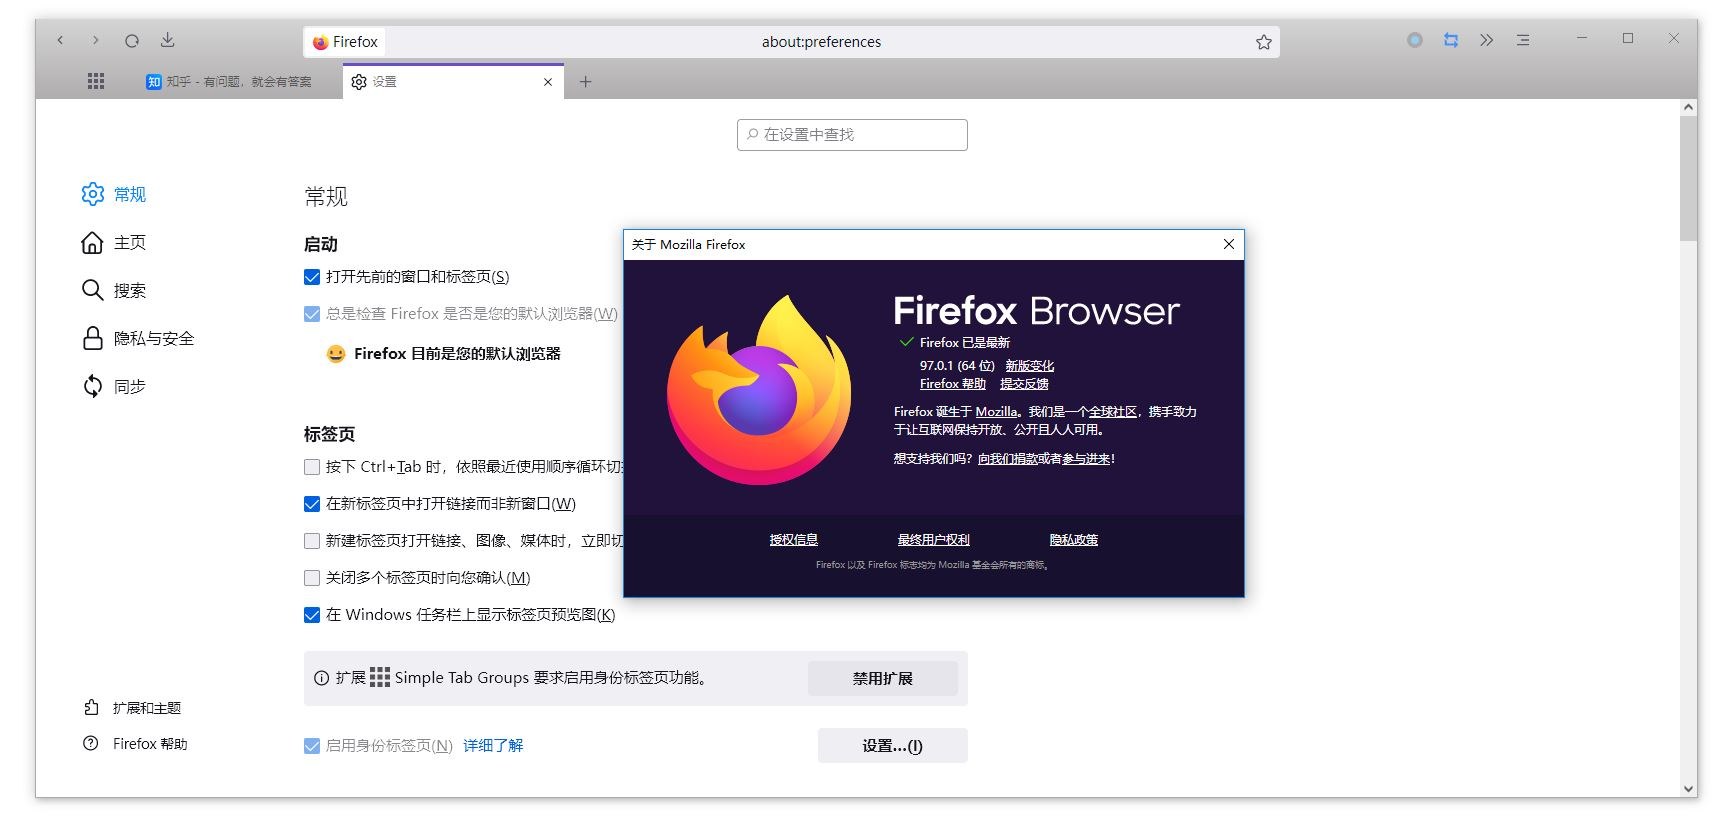
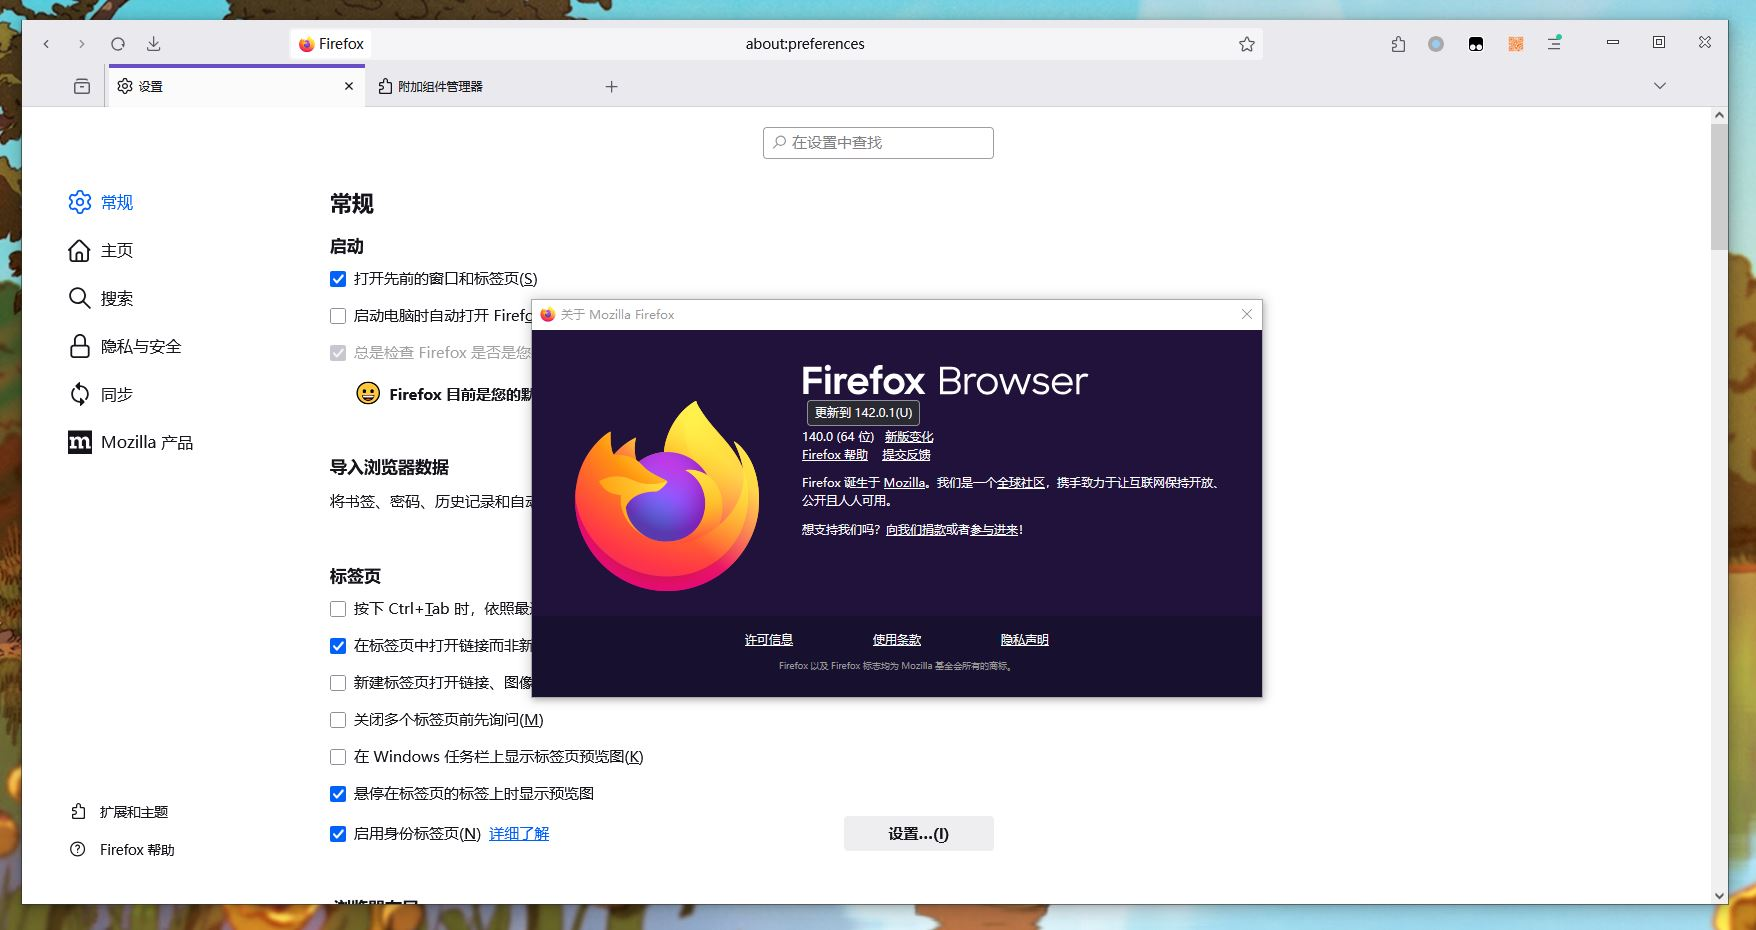
update to newer version of Firefox

diff --git a/chrome/userChrome.css b/chrome/userChrome.css
@@ -6,19 +6,43 @@
 :root {
   --control-bottons-width: 150px;
   --narrow-space: 2px;
+
+  /* 导航栏渐变背景 */
+  --blend-background-start: rgba(212,212,212, 0.5);
+  --blend-background-end: rgba(174,173,173, 0.8);
 }
 
 #TabsToolbar { /* 标签栏 */
   padding-top: 44px !important;
 
   /* 去掉这个背景，可适应当前主题 */
-  background-image: linear-gradient(rgb(212,212,212),rgb(174,173,173));
+  background-image: linear-gradient(var(--blend-background-start),var(--blend-background-end));
 }
 
 #TabsToolbar .titlebar-buttonbox-container { /* 最大最小化关闭按钮 */
   margin-top: -44px !important;
   margin-bottom: 44px !important;
   padding-left: 20px;
+}
+
+#TabsToolbar .titlebar-buttonbox-container .titlebar-min {
+  list-style-image: url(chrome://browser/skin/window-controls/minimize-themes.svg) !important;
+}
+
+#TabsToolbar .titlebar-buttonbox-container .titlebar-max {
+  list-style-image: url(chrome://browser/skin/window-controls/maximize-themes.svg) !important;
+}
+
+#TabsToolbar .titlebar-buttonbox-container .titlebar-restore {
+  list-style-image: url(chrome://browser/skin/window-controls/restore-themes.svg) !important;
+}
+
+#TabsToolbar .titlebar-buttonbox-container .titlebar-close {
+  list-style-image: url(chrome://browser/skin/window-controls/close-themes.svg) !important;
+}
+
+#TabToolbar .tab-label {
+  text-shadow: white 0px 0px 8px;
 }
 
 #nav-bar { /* 长导航栏 */
@@ -28,6 +52,7 @@
   height      : 44px !important;
   margin-bottom: calc(44px - var(--narrow-space) - 2px) !important;
   padding-top: 6px;
+  border-top: unset;
 }
 
 #back-button { /* 回退按钮 */
@@ -42,8 +67,8 @@
   list-style-image: url("icons/refresh-1x.svg") !important;
 }
 
-#urlbar-input-container { /* url 地址栏 + 搜索栏 文字 */
-  text-align: center;
+#urlbar-input { /* url 地址栏 + 搜索栏 文字 */
+  text-align: center !important;
 }
 
 #tracking-protection-icon-container { /* 跟踪器按钮 */
@@ -66,13 +91,27 @@
   list-style-image: url("icons/lock.svg") !important;
 }
 
+#urlbar-background {
+  background-color: rgba(255, 255, 255, 0.54) !important;
+}
+
+#urlbar:is([focused], [open]) #urlbar-background {
+  background-color: white !important;
+}
+
+#urlbar-searchmode-switcher { /* 搜索栏 搜索引擎图标 */
+  background-color: transparent;
+}
+
 #TabsToolbar .tab-background { /* 标签 背景 */
   position: relative !important;
   box-shadow: none !important;
   opacity: 1 !important;
   border: none !important;
   outline: none !important;
-  margin-block: 0 !important;
+  /* margin-block: 0 !important; */
+  margin-top: 0 !important;
+  margin-bottom: 0 !important;
   border-radius: 0 !important;
 }
 
@@ -80,13 +119,22 @@
   display: none;
 }
 
+#TabToolbar .tab-stack { /* 标签页 */
+  padding-top: 6px;
+}
+
+.tabbrowser-tab:is([selected], [multiselected]) { /* 激活标签页 */
+  min-width: 260px !important;
+}
+
 #TabsToolbar .tab-background:is([selected], [multiselected]) .tab-context-line { /* 激活标签页 帽子 */
-  height: 3px;
+  height: 4px;
   background-color: #694ec8;
 }
 
 #TabsToolbar .tab-background:is([selected], [multiselected]) { /* 激活标签页 背景 */
   box-shadow: none !important;
+  background-color: rgba(255, 255, 255, 0.8) !important;
 }
 
 #TabsToolbar .tabbrowser-tab:not([selected]) .tab-close-button { /* 非激活标签页 关闭按钮 */

diff --git a/README.md b/README.md
@@ -3,3 +3,23 @@
 My personal firefox css theme focused on simpleness.
 
 ![](preview.jpg)
+
+## Install
+
+1. Goto `about:profile` and open the profile folder.
+
+2. Copy `user.js` and `chrome` to the profile folder.
+
+3. Restart Firefox.
+
+## Enable Live Editing (For Developer)
+
+1. Press `F12` to open web developer console.
+
+2. Go to `setting` of web developer console, turn on `Enable browser interface and addon debug toolkit` and `Enable remote debug`.
+
+3. Goto `Menu -> Tools -> Browser toolkit` or `Ctrl+Shift+Alt+I`.
+
+4. Accept remote debug connection.
+
+5. Goto `Style` tab, search for `userChrome.js`. Edit the content and wait for few seconds to update in the interface of browser.
